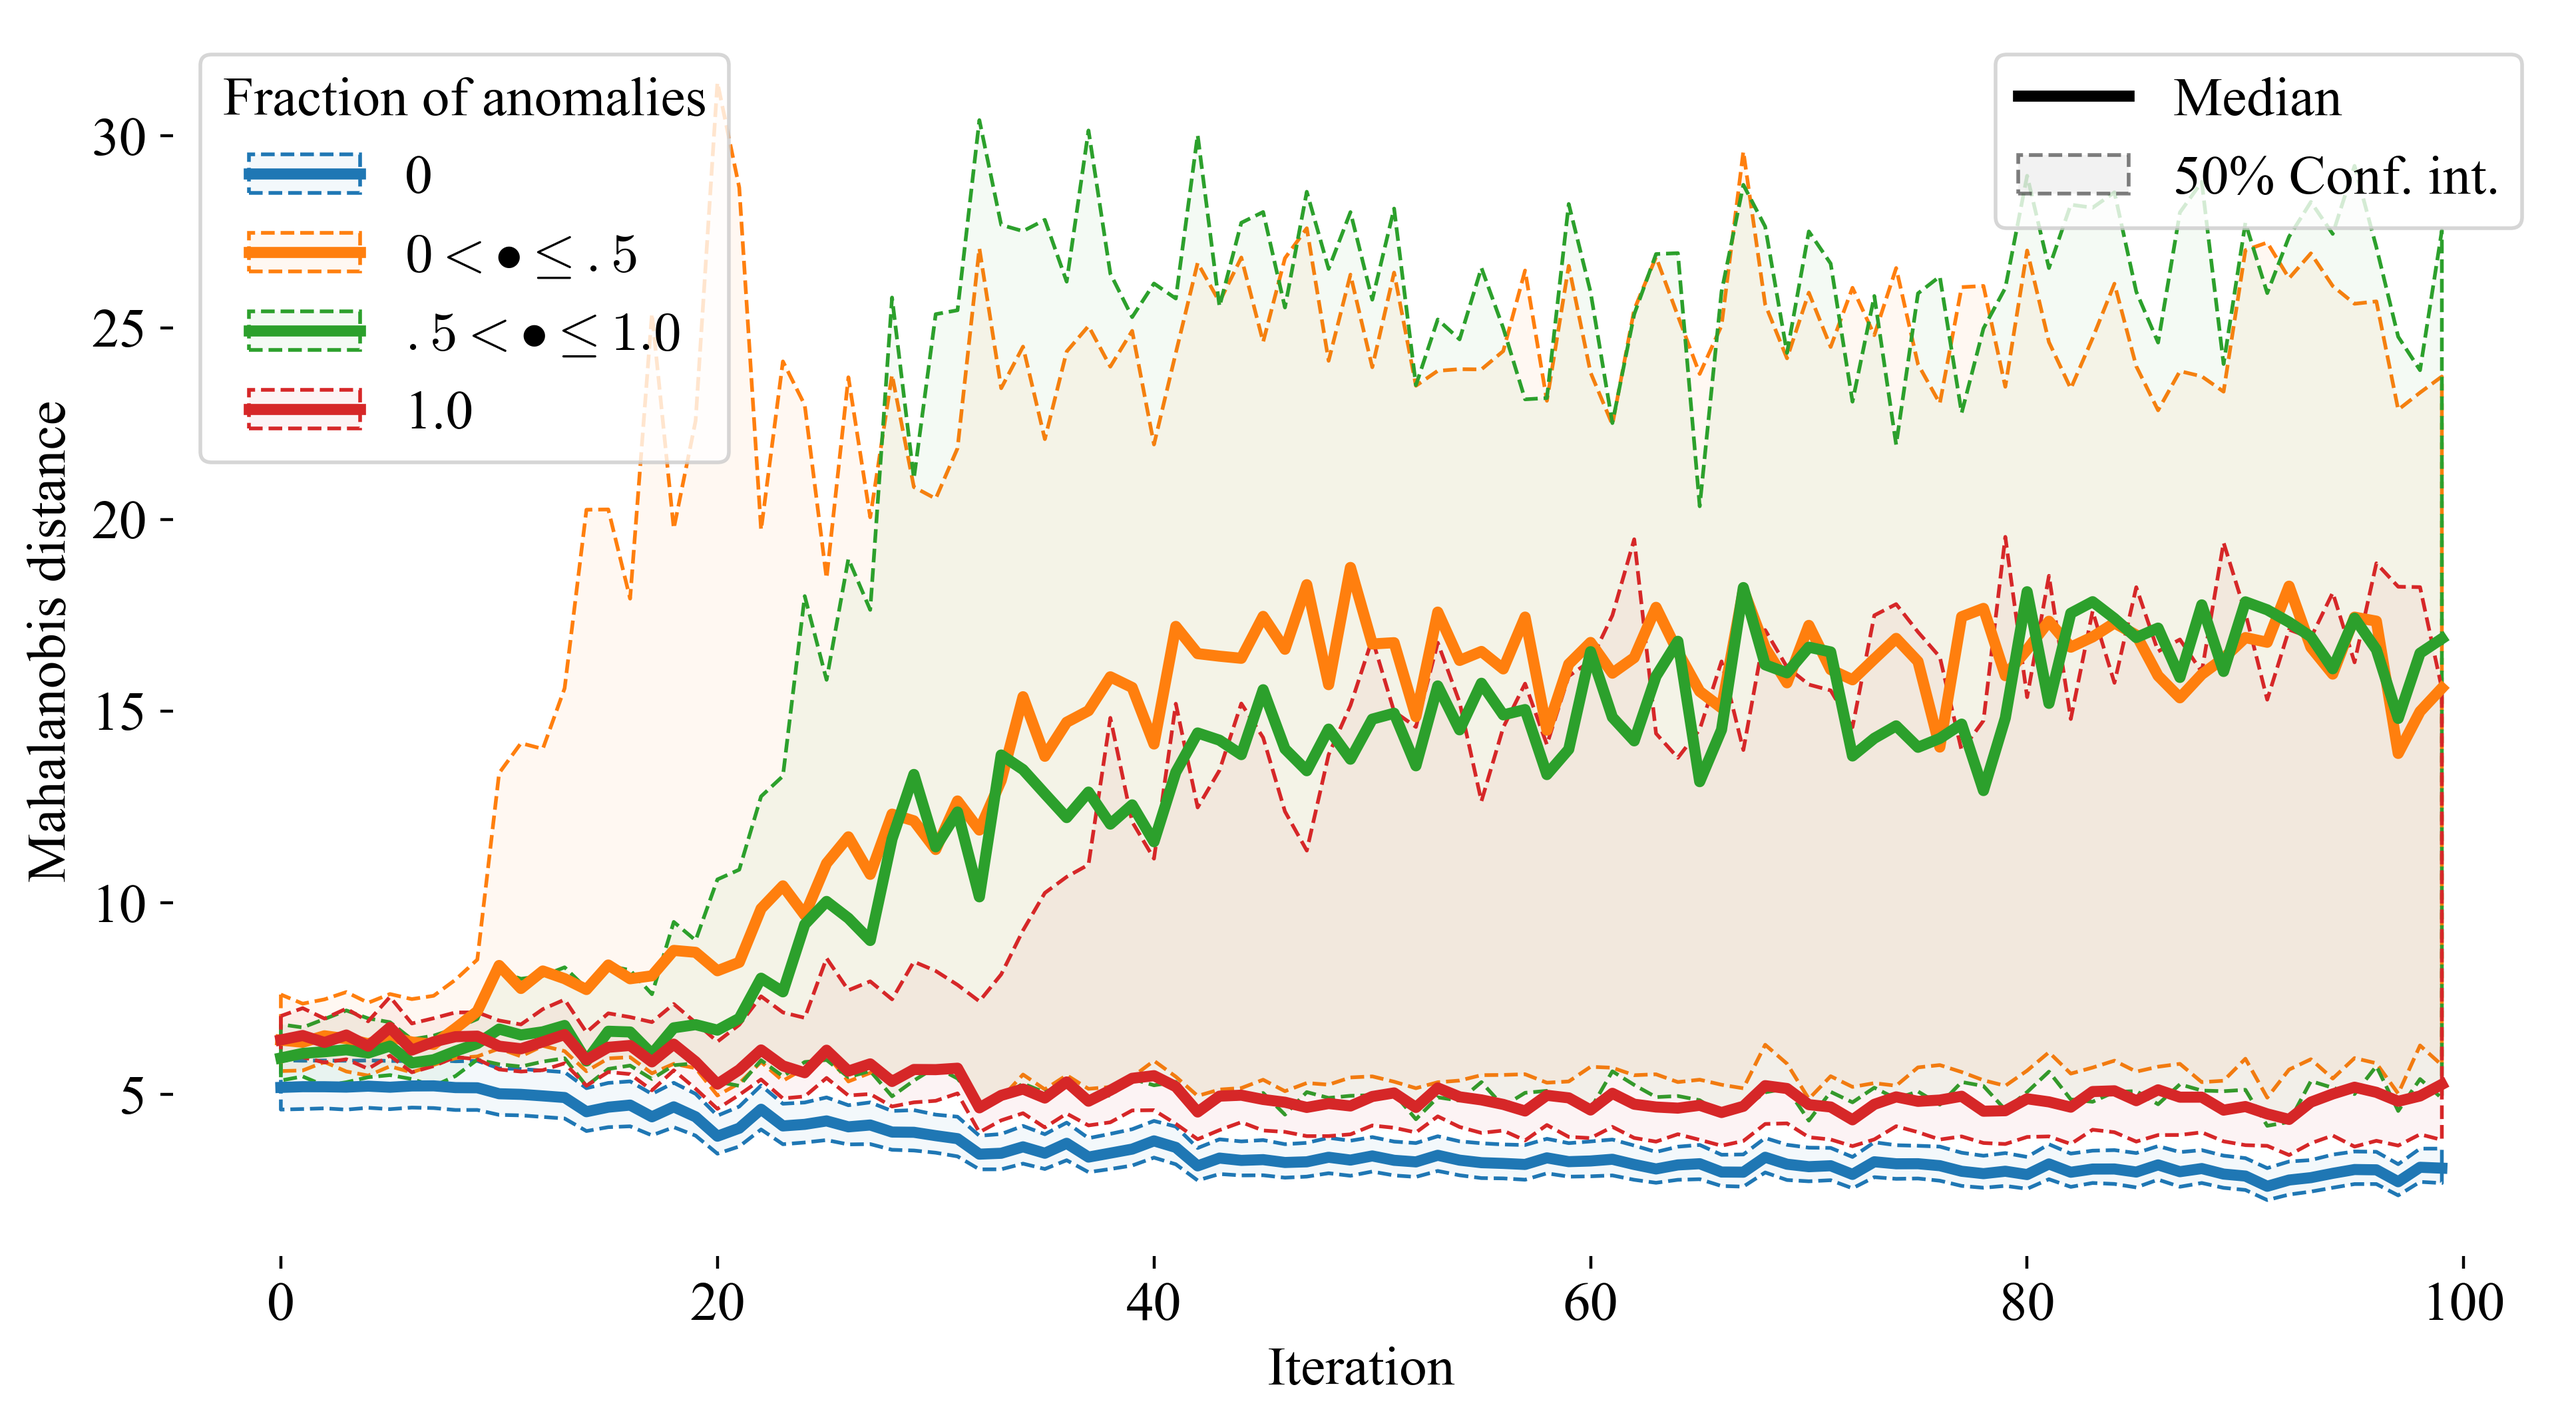
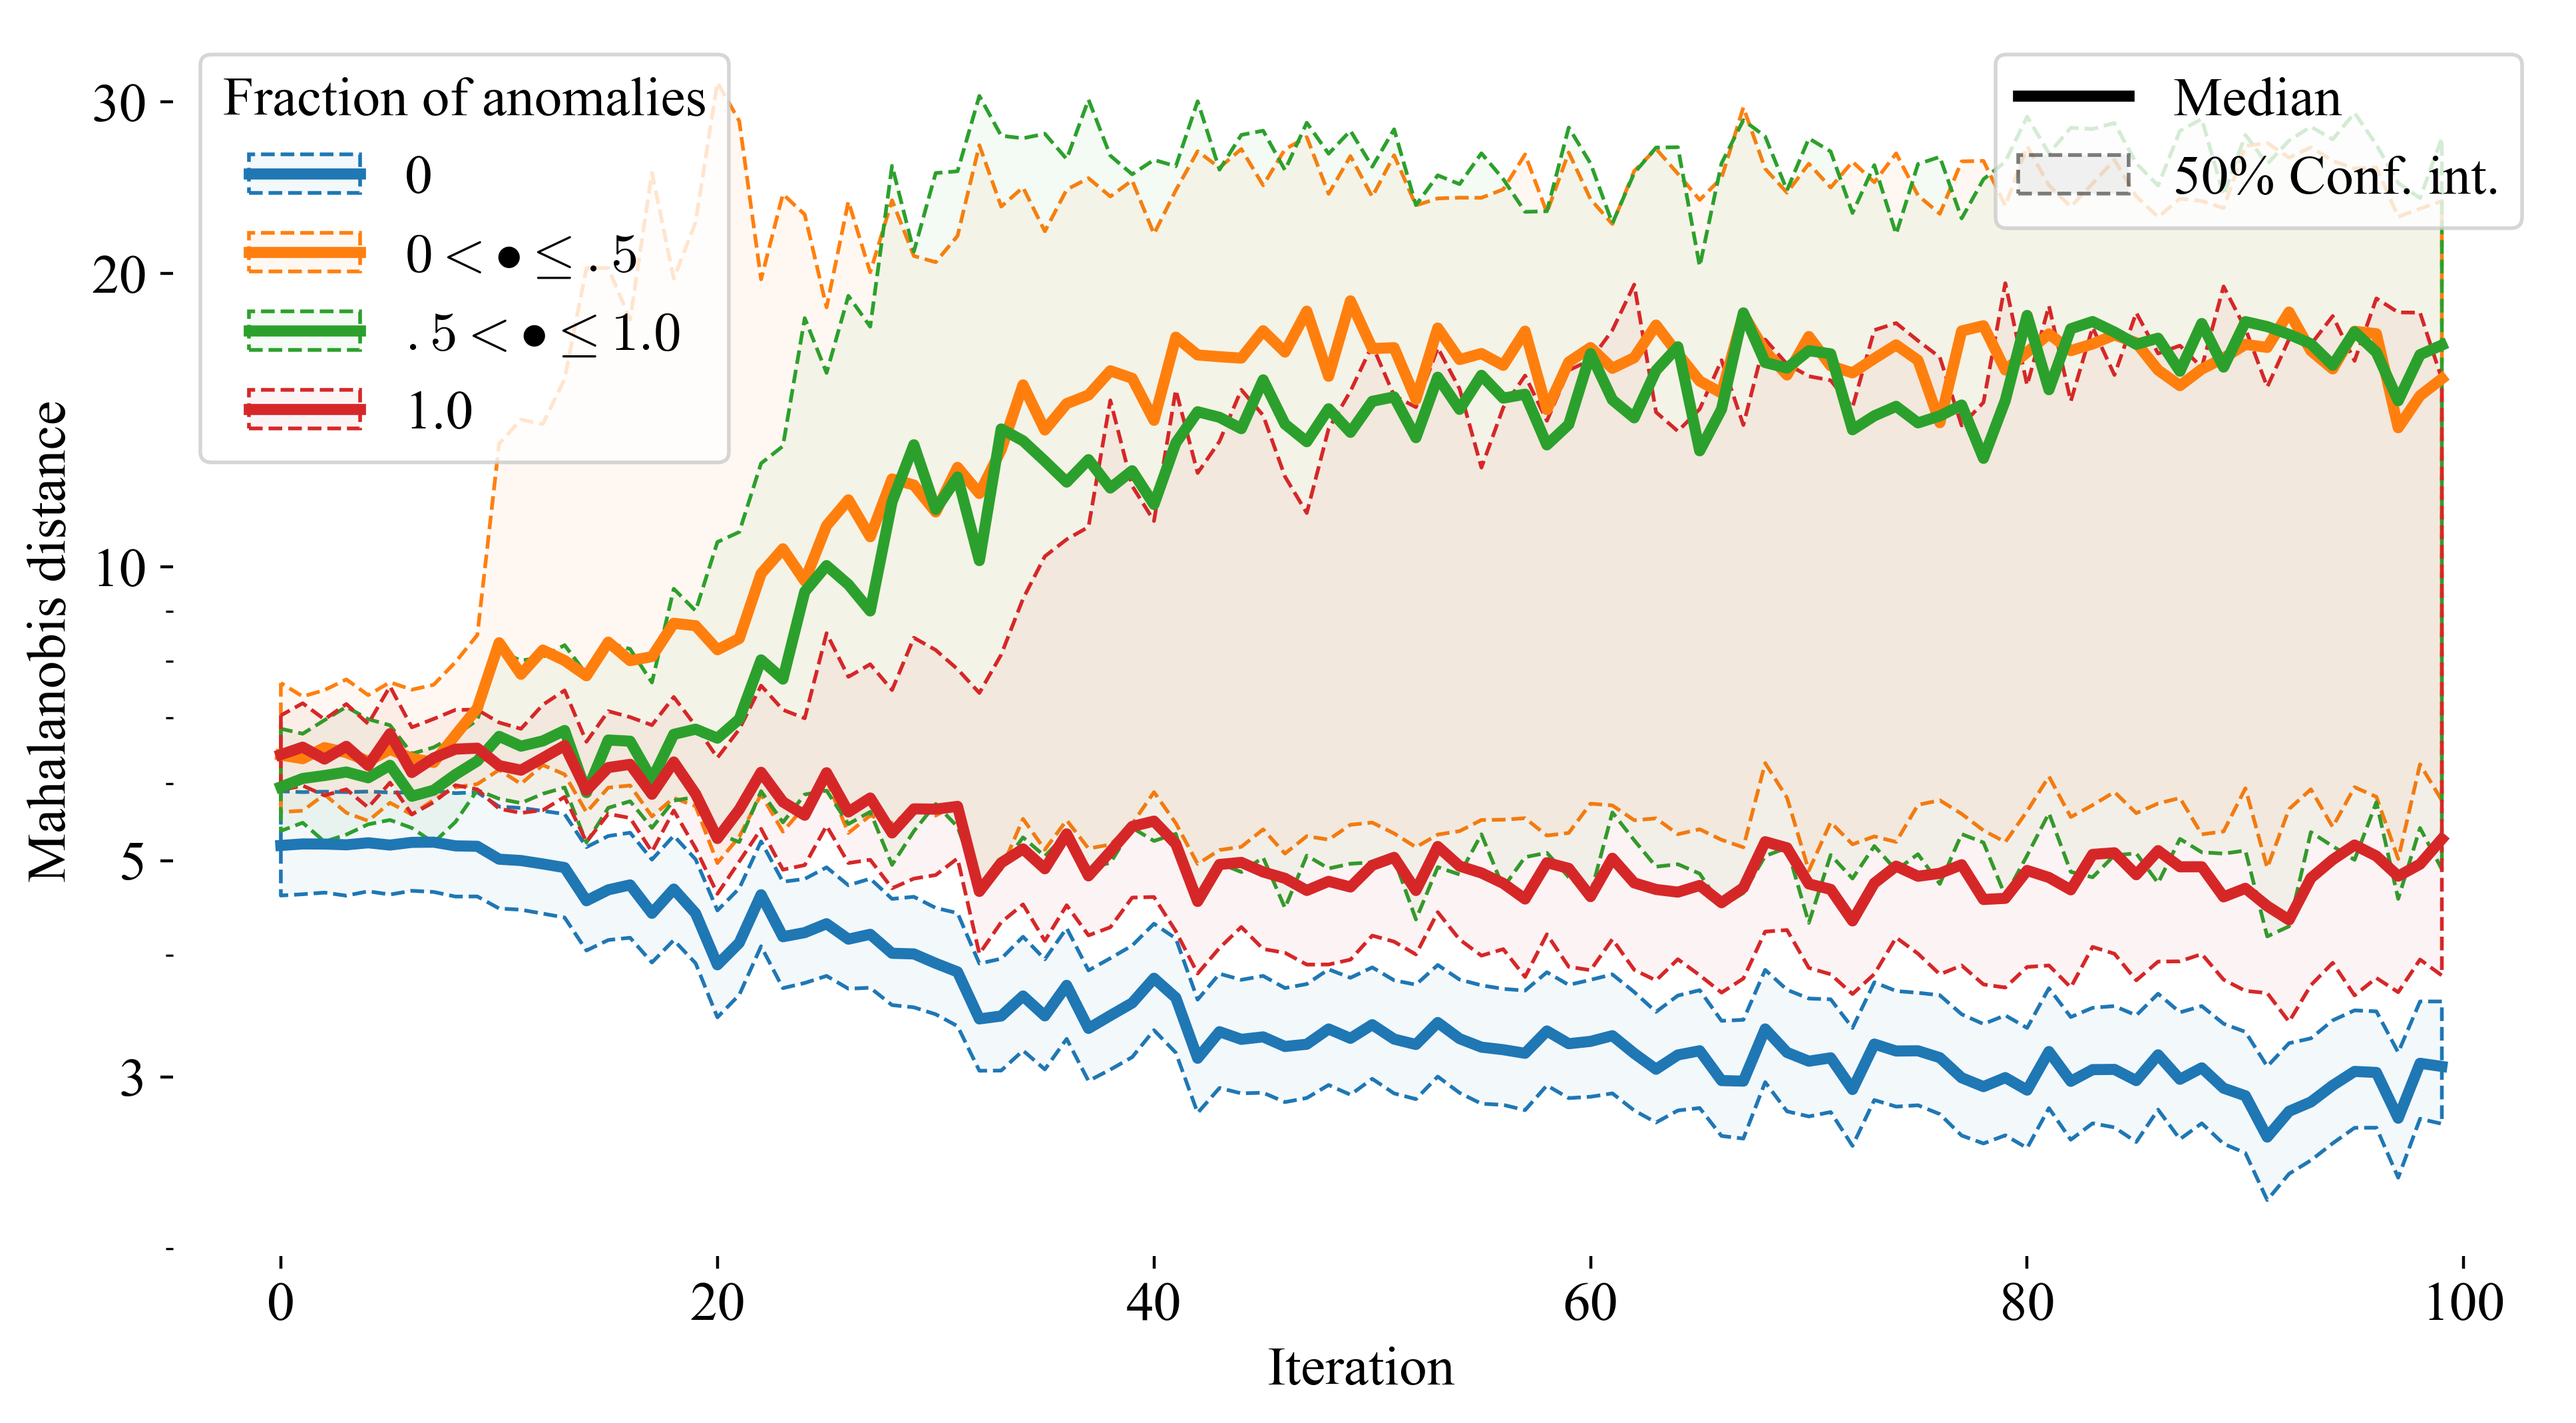
Updated plot 7 with a log-scale y-axis

diff --git a/make_plots/plot_iteration_eval.py b/make_plots/plot_iteration_eval.py
@@ -102,6 +102,9 @@ line = Line2D([0], [0], color='black', linewidth=3)
 patch = Rectangle([0, 0], 0.5, 0.5, edgecolor=(0, 0, 0, 0.5), facecolor=(0, 0, 0, 0.05), linestyle='dashed')
 legend2 = ax.legend([line, patch], ['Median', '50% Conf. int.'], framealpha=0.8)
 ax.add_artist(legend)
+ax.set_yscale('log')
+ax.set_yticks([3, 5, 10, 20, 30])
+ax.set_yticklabels([3, 5, 10, 20, 30])
 
 ax.set_ylabel('Mahalanobis distance')
 ax.set_xlabel('Iteration')

diff --git a/analysis/iteration_experiment.py b/analysis/iteration_experiment.py
@@ -70,7 +70,7 @@ for rep in range(5):
     train_loader = torch.utils.data.DataLoader(dataset, batch_size=256, shuffle=True)
 
     # %% Define and train the autoencoder
-    print(f"{f' REPETITION {rep} ':-^100s}")
+    print(f"{f' REPETITION {rep} ': -^100s}")
     print(f"{' Training the autoencoder part ': -^100s}")
 
     autoencoder = auto_encoder(5, kernel_size=5, channels=256, emb_dim=EMB_DIM,
